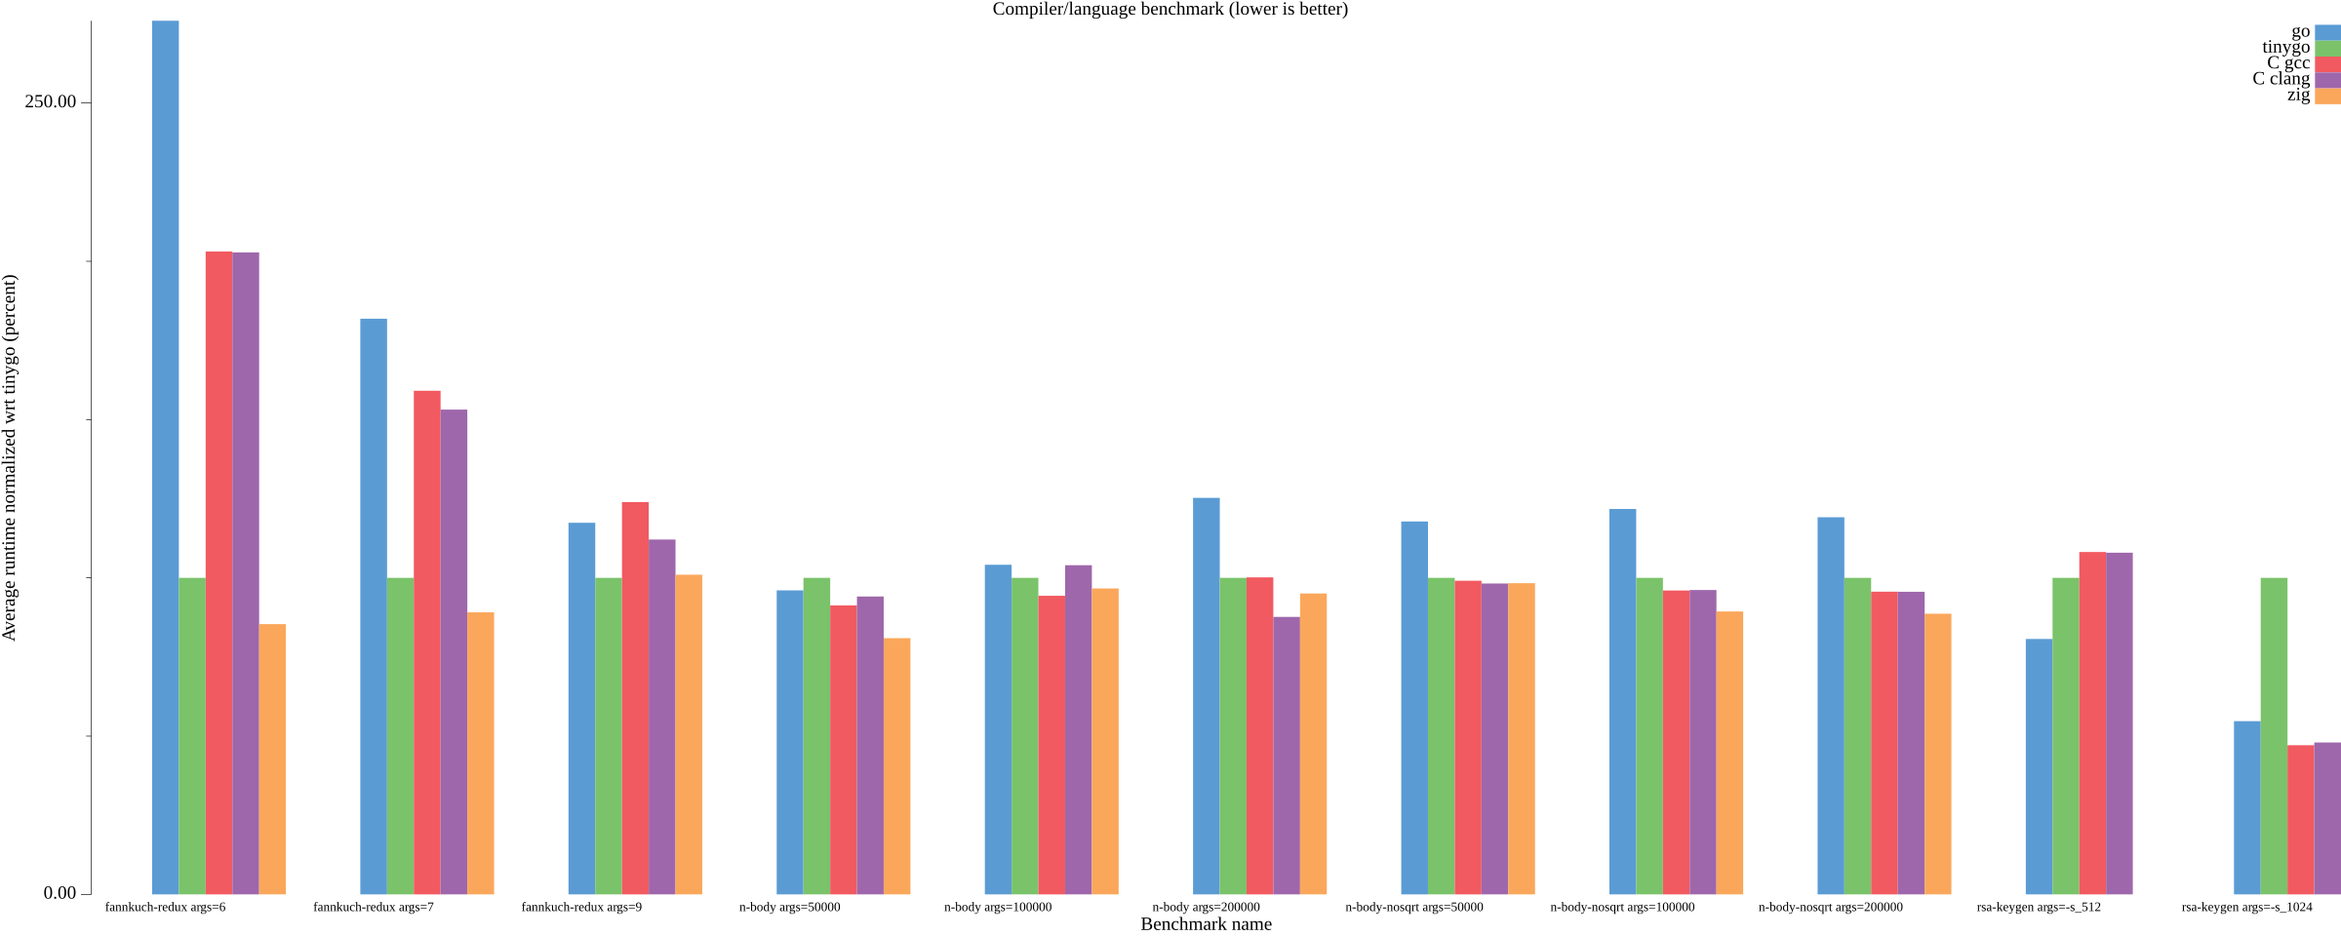
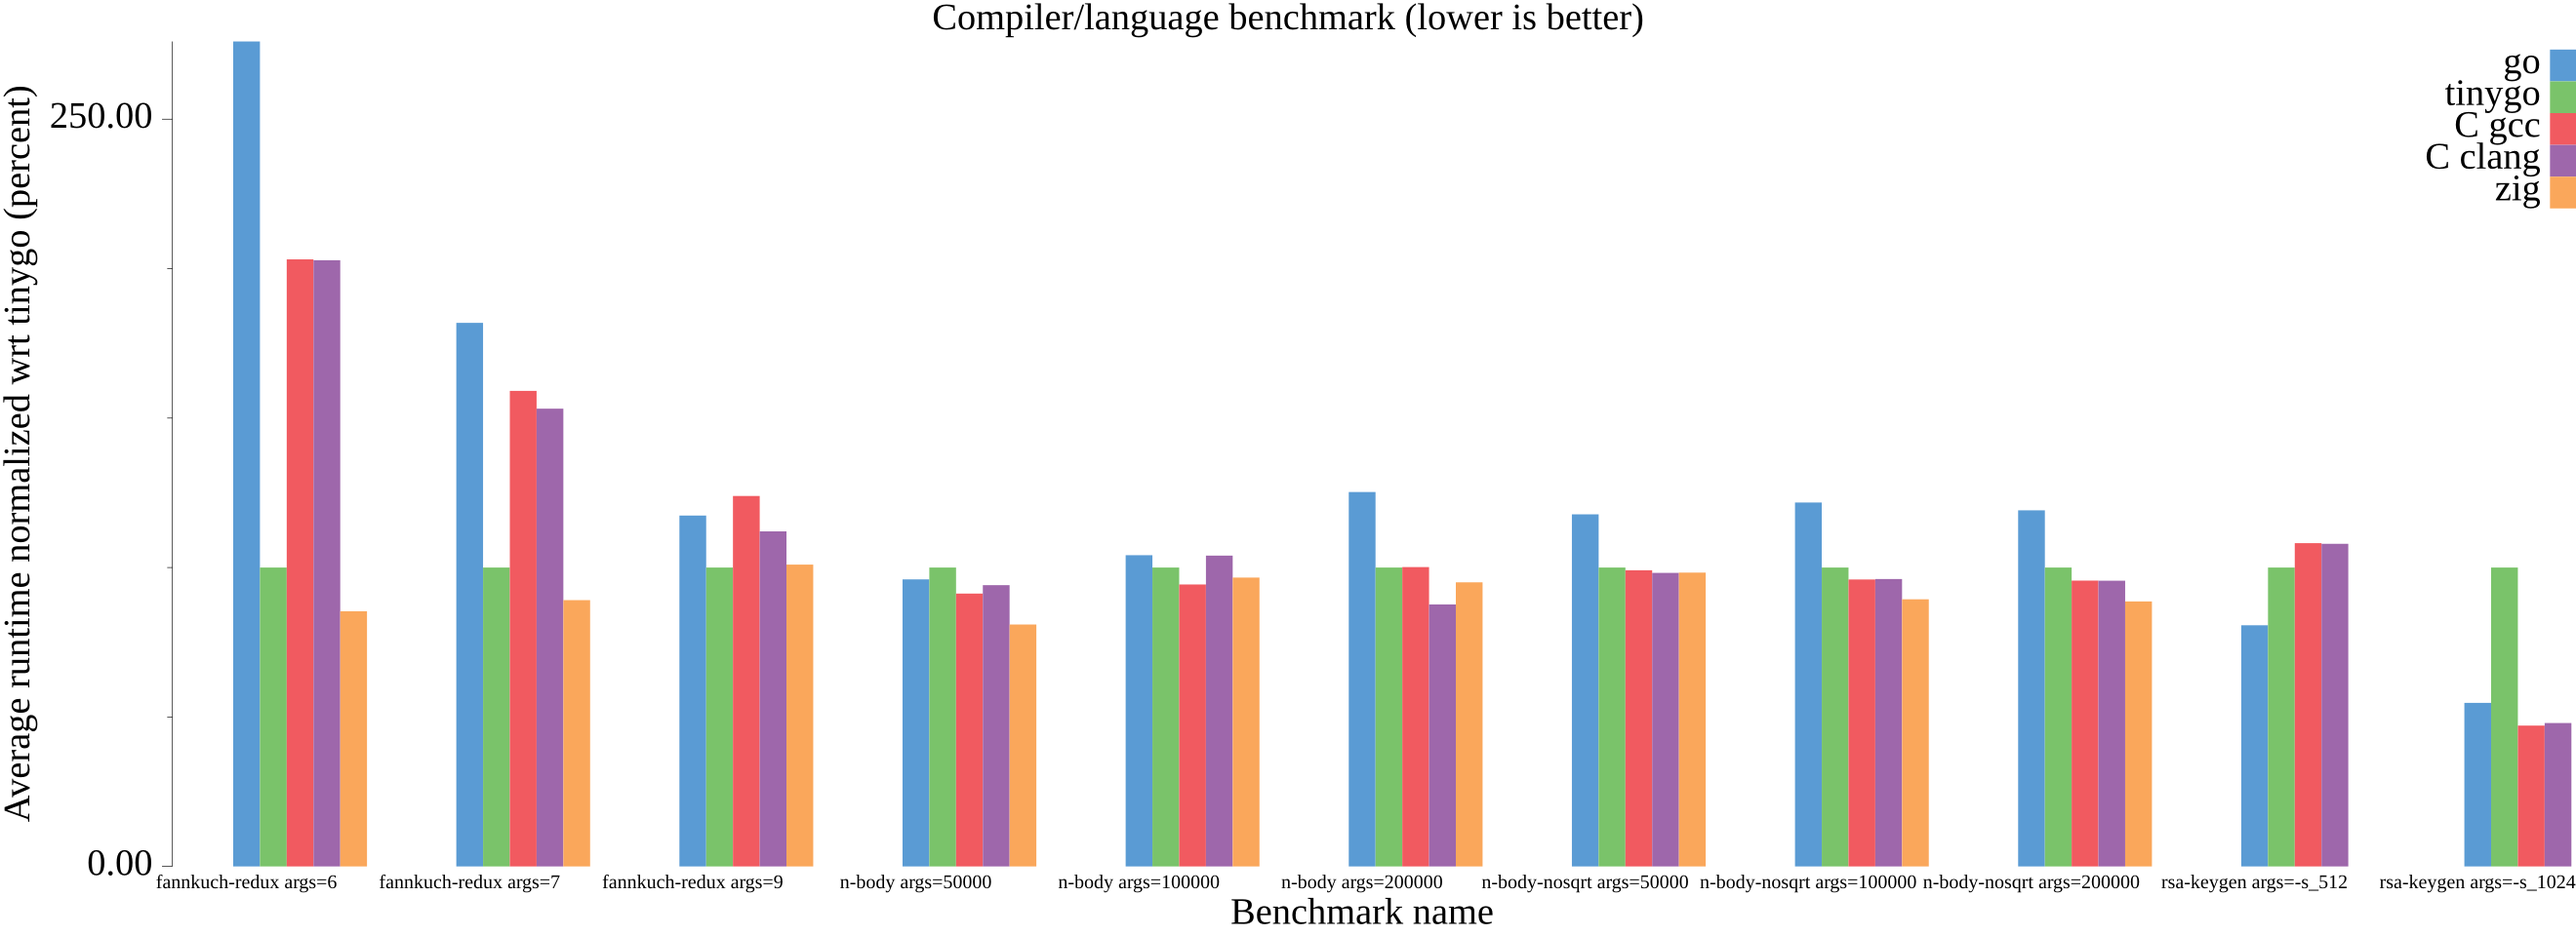
fix benchmark plot sizes

diff --git a/plot_/main.go b/plot_/main.go
@@ -34,11 +34,22 @@ func main() {
 }
 
 func drawBenchmark(langs []langBench, savefile, baseLang string) error {
+	var nBenchs int
+	for i := range langs {
+		if langs[i].Langname == baseLang {
+			nBenchs = len(langs[i].Results)
+		}
+	}
+	if nBenchs == 0 {
+		return fmt.Errorf("base language %q not found among %v", baseLang, langs)
+	}
 	var (
+		maxBenchs  = nBenchs * len(langs)
 		plotHeight = 10 * vg.Inch
-		plotWidth  = plotHeight * vg.Length(len(langs)) / 2
+		plotWidth  = plotHeight * vg.Length(maxBenchs) / 20
+		benchWidth = plotWidth / vg.Length(nBenchs)
 
-		fontsize = plotHeight / 50
+		fontsize = plotHeight / 25
 		barwidth = plotHeight / 35
 	)
 
@@ -82,6 +93,7 @@ func drawBenchmark(langs []langBench, savefile, baseLang string) error {
 	}
 	p.Legend.Top = true
 	p.NominalX(nominals...)
+	p.X.Tick.Label.Font.Size = benchWidth / 12 // Nominal size.
 
 	p.Title.TextStyle.Font.Size = fontsize
 	p.Legend.TextStyle.Font.Size = fontsize
